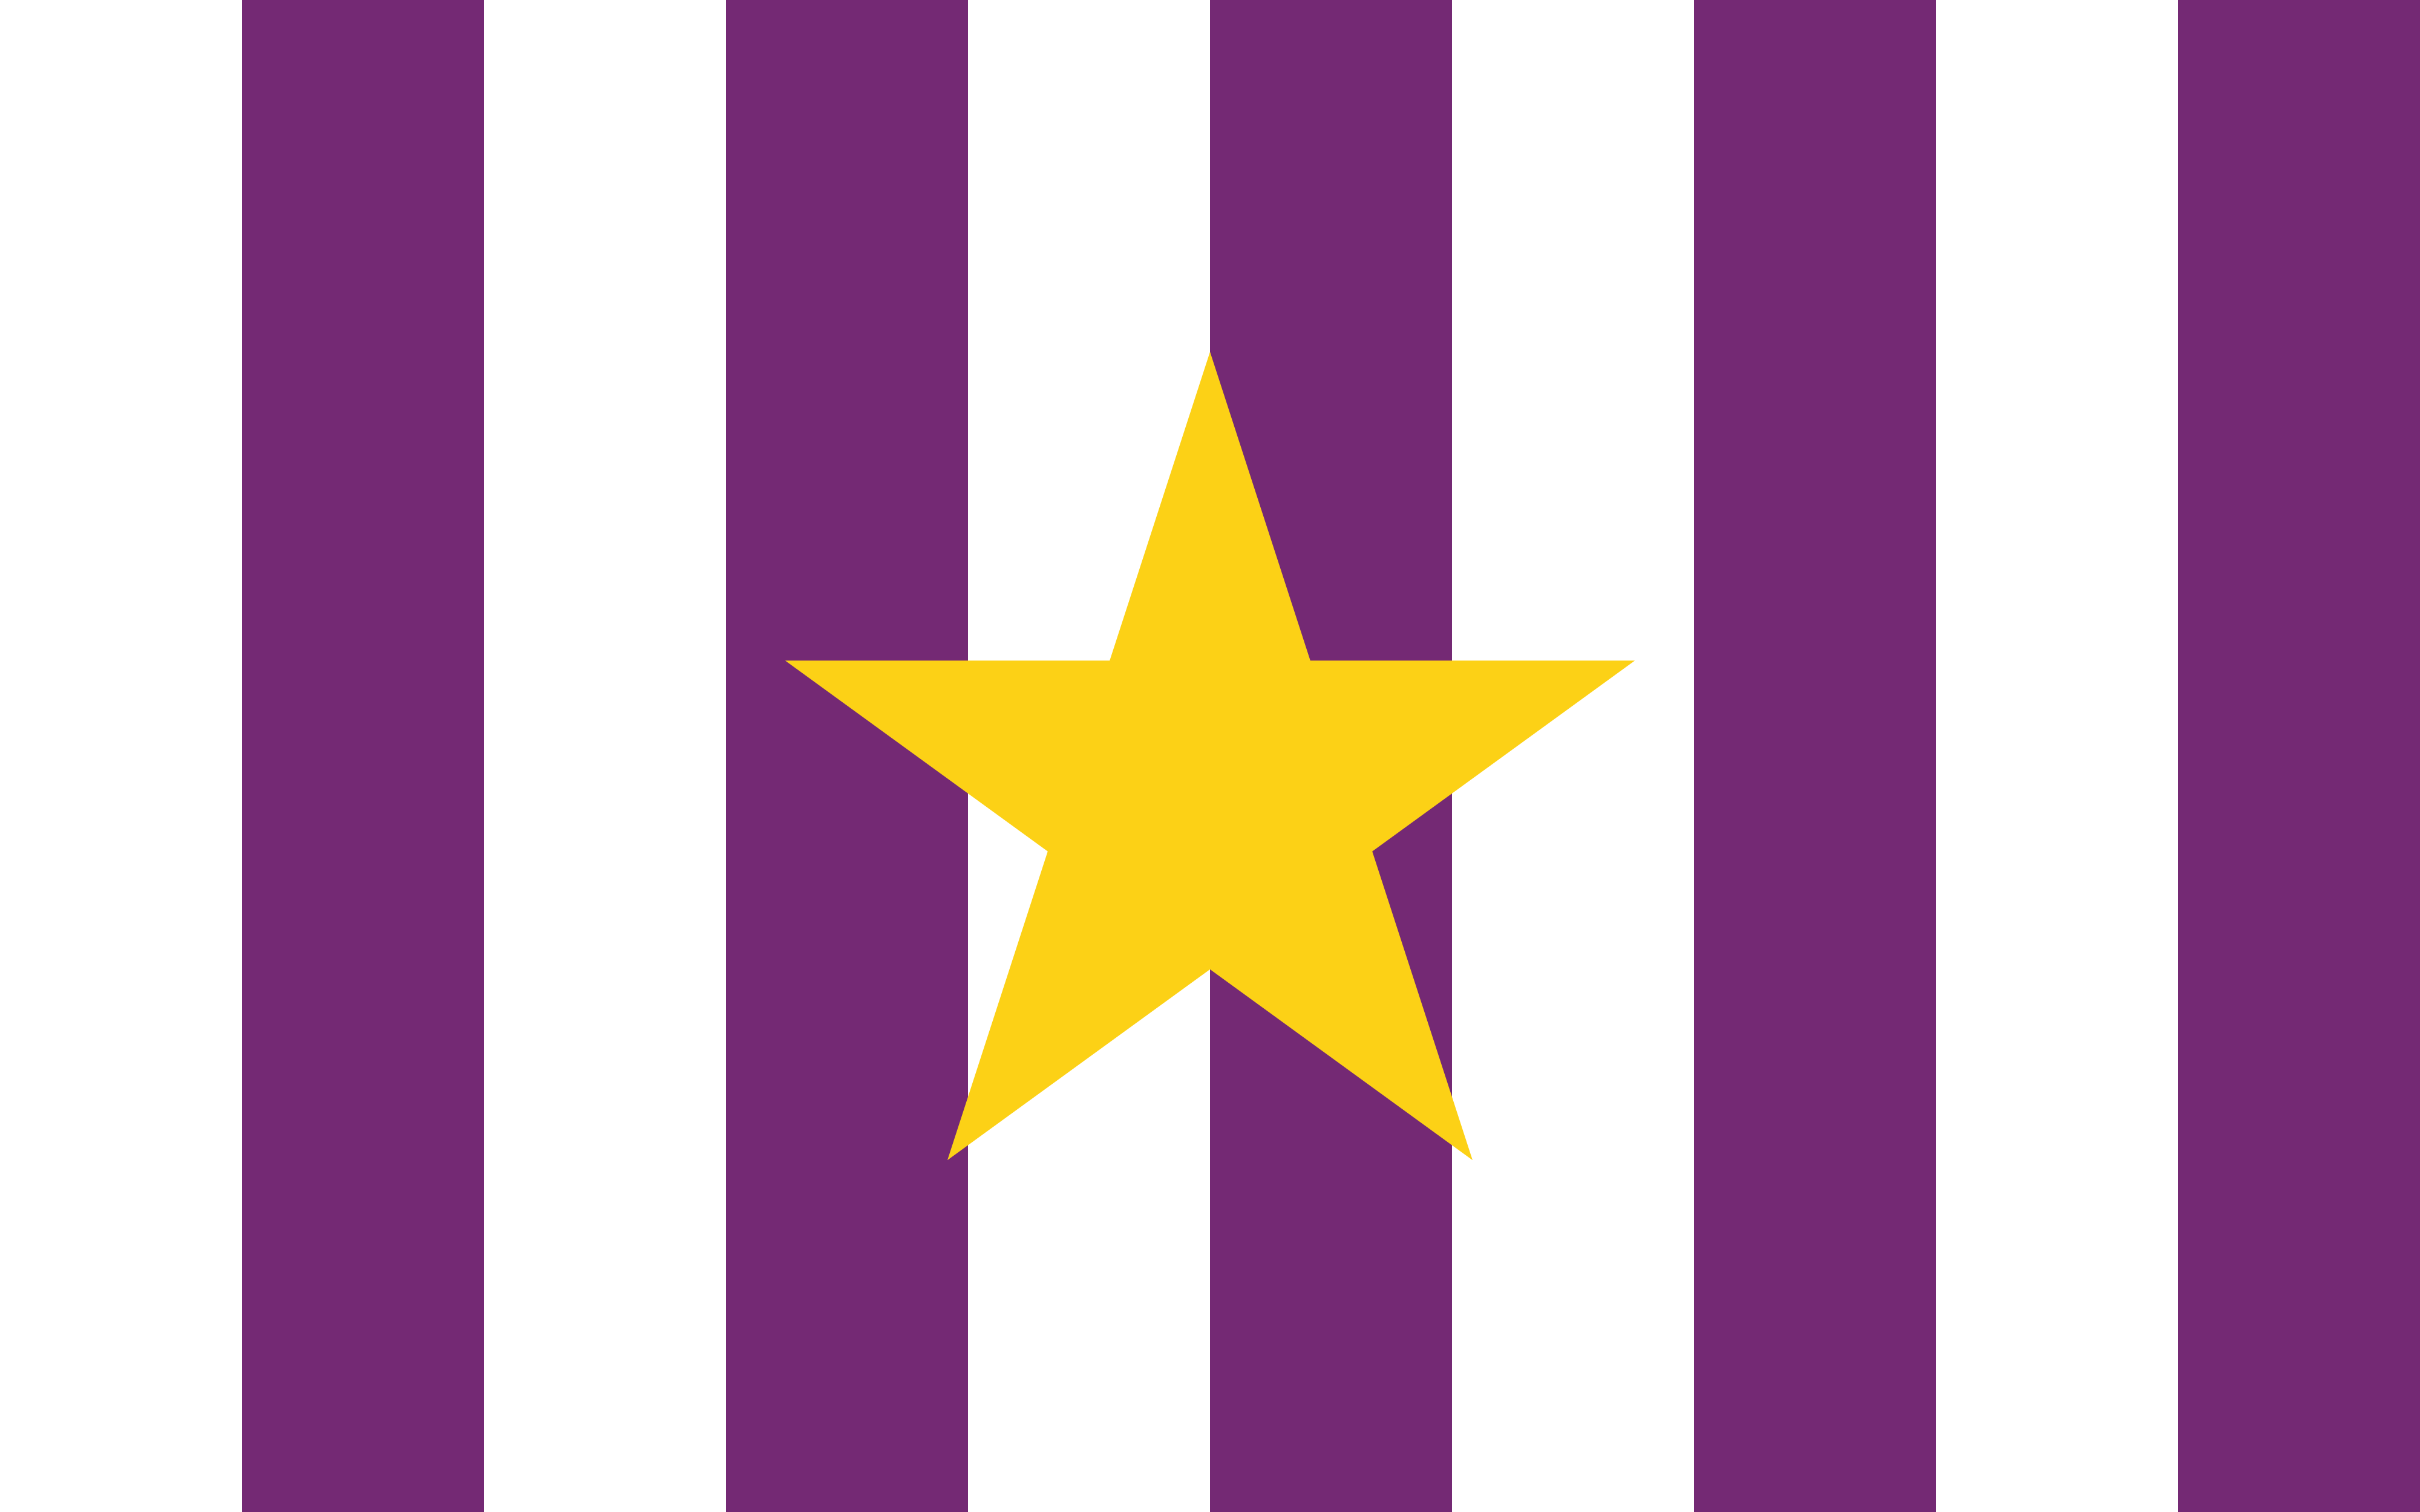
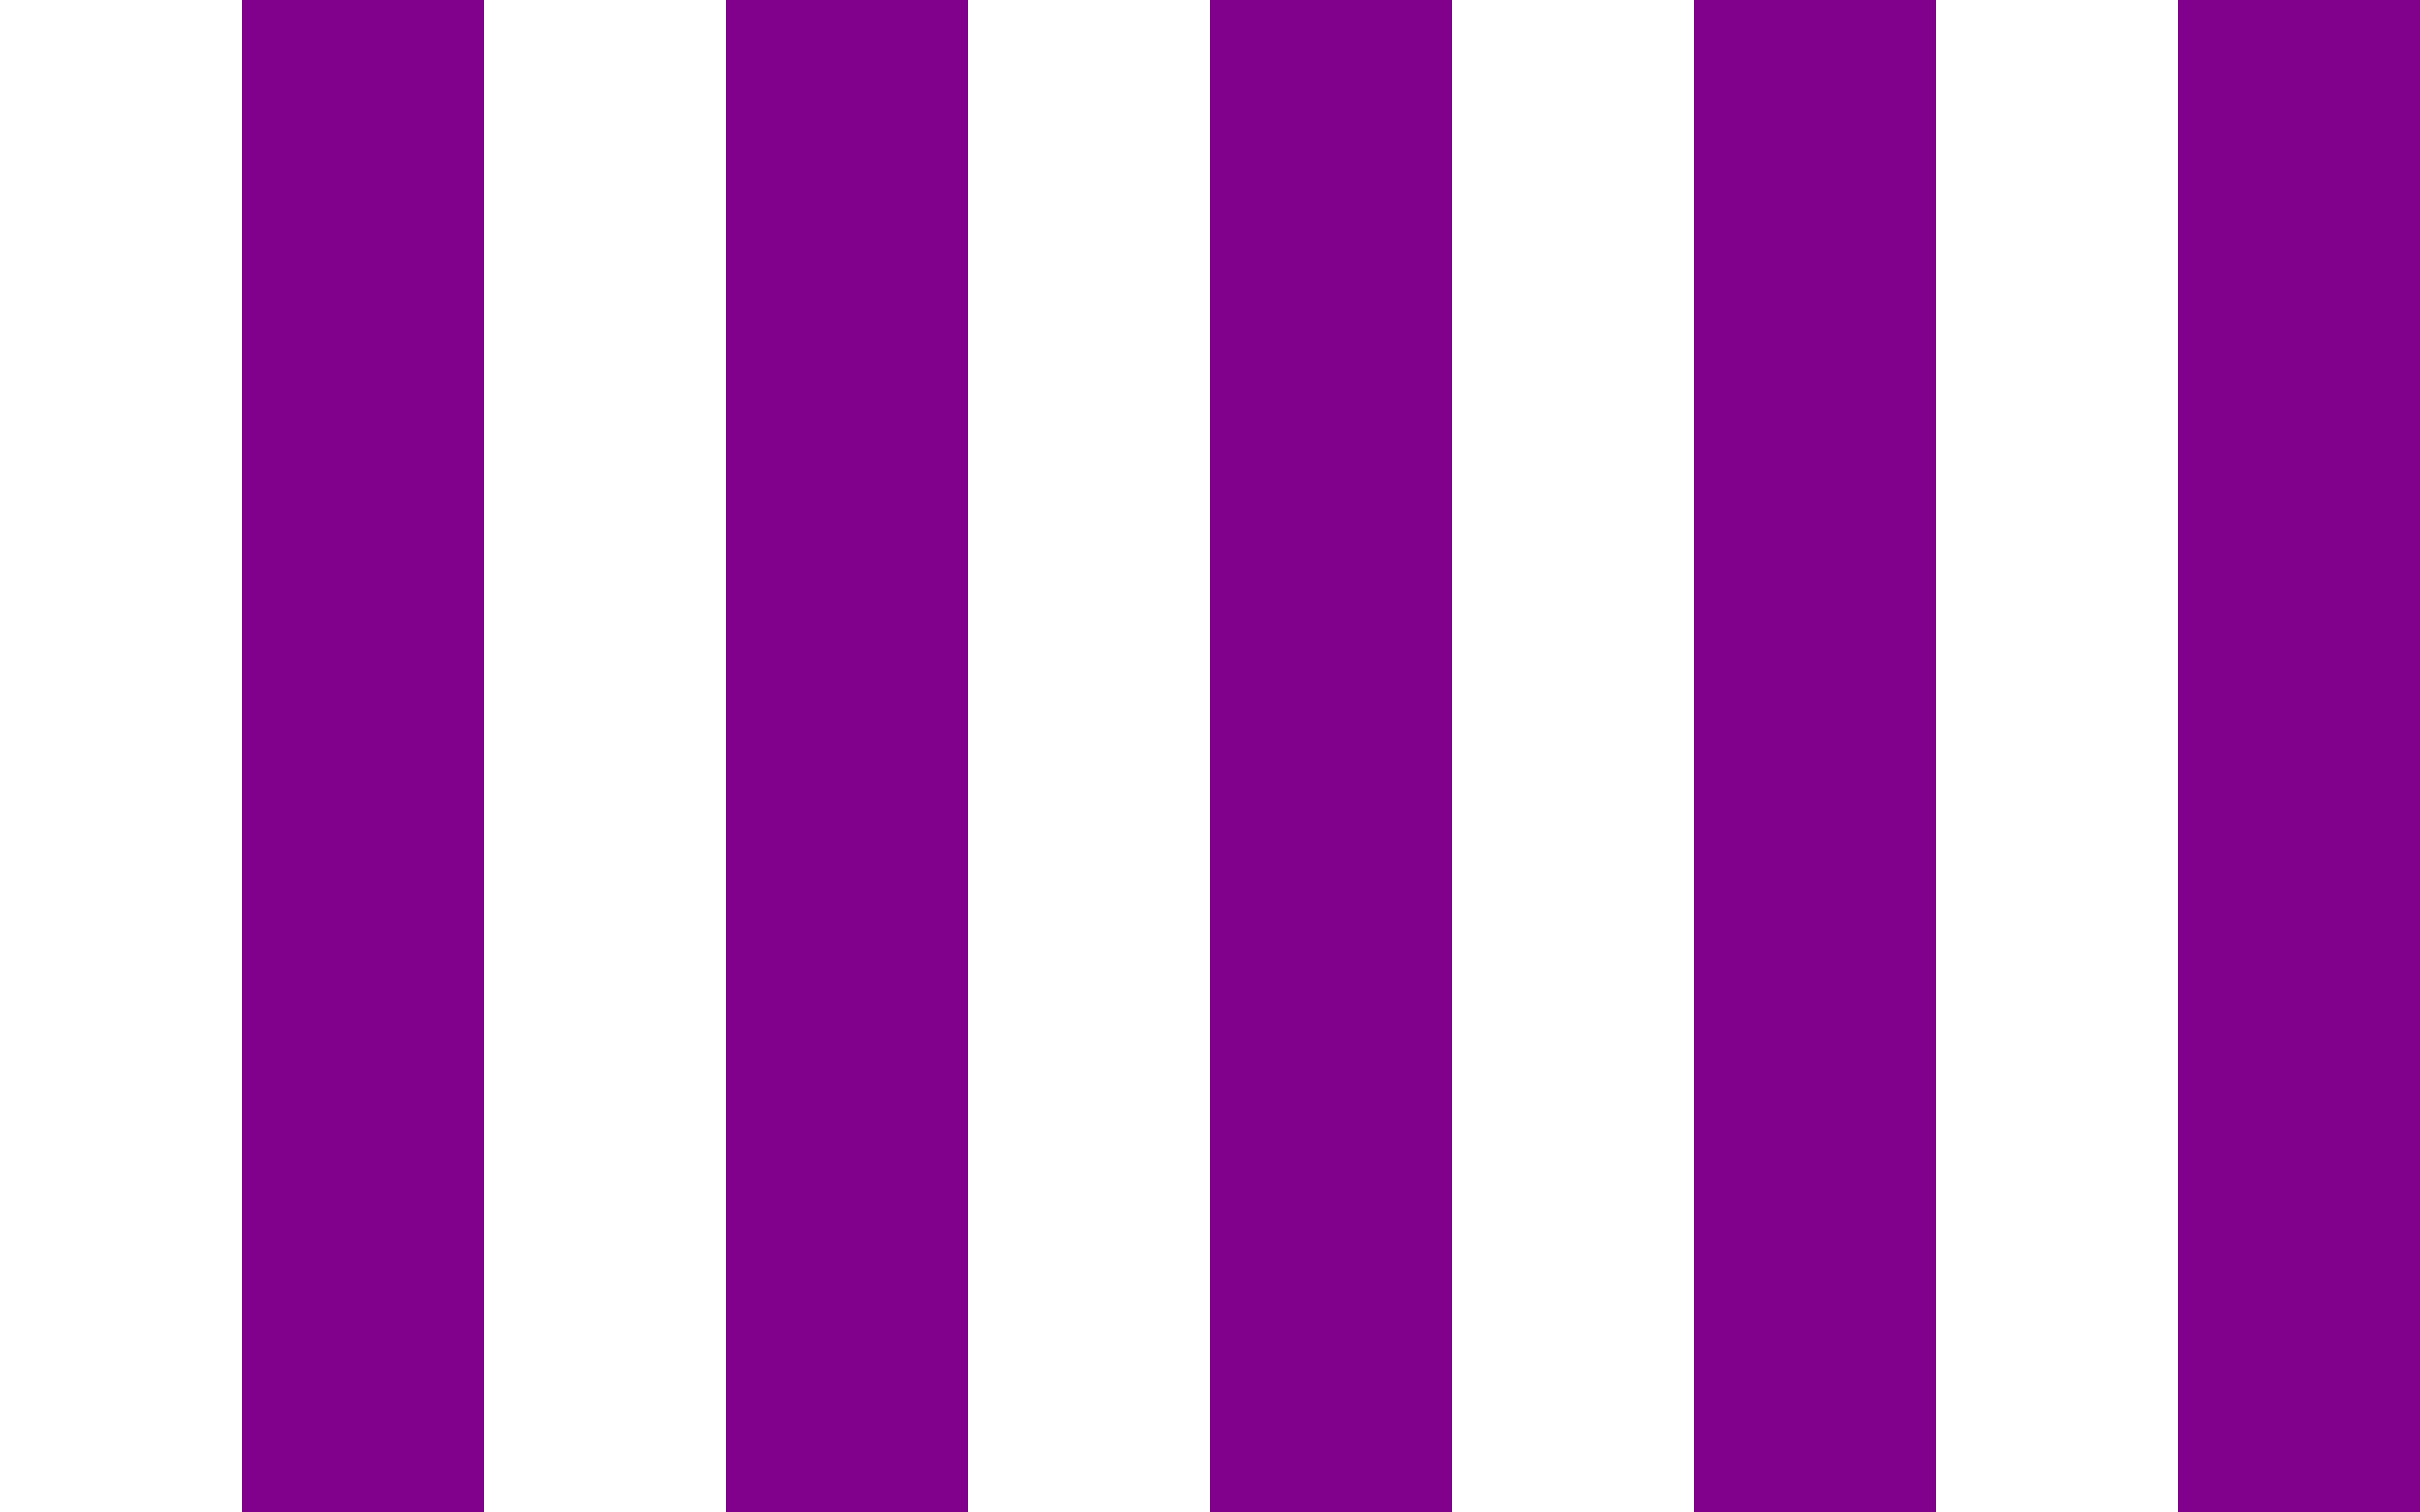
nie chce mi się wymieniać

diff --git a/Strona Internetowa/konstytucja.html b/Strona Internetowa/konstytucja.html
@@ -1,0 +1,36 @@
+<!DOCTYPE html>
+<html lang="en">
+<head>
+    <meta charset="UTF-8">
+    <title>Królestwo Marynskie</title>
+    <link rel="icon" type="image/x-icon" href="assets/herb_królestwa_marynskiego.ico">
+    <link rel="stylesheet" href="style.css"> 
+    <script src="https://cdn.jsdelivr.net/npm/marked/marked.min.js"></script>
+</head>
+
+<body>
+    <div class="header_">
+        <a class="logo_" href="index.html"><img src="assets/herb_królestwa_marynskiego.png"></a>
+        <h1><b>Królestwo Marynskie</b></h1>
+        <a href="index.html">Strona Główna</a>
+        <a href="wielka_karta.html">Wielka Karta</a>
+    </div>
+    <div class="motto_">
+        "Fide et Honore"
+    </div>
+
+    <div id="content">
+        Ładowanie...
+    </div>
+
+    <script>
+        fetch("Wielka_Karta_Królestwa-Marynskiego.md")
+            .then(response => response.text())
+            .then(markdown => {
+            document.getElementById('content').innerHTML =
+                marked.parse(markdown);
+            });
+
+    </script>
+</body>
+</html>

diff --git a/Strona Internetowa/index.html b/Strona Internetowa/index.html
@@ -1,0 +1,23 @@
+<!DOCTYPE html>
+<html lang="en">
+<head>
+    <meta charset="UTF-8">
+    <title>Królestwo Marynskie</title>
+    <link rel="icon" type="image/x-icon" href="assets/herb_królestwa_marynskiego.ico">
+    <link rel="stylesheet" href="style.css"> 
+</head>
+
+<body>
+    <div class="header_">
+        <a class="logo_" href="index.html"><img src="assets/herb_królestwa_marynskiego.png"></a>
+        <h1><b>Królestwo Marynskie</b></h1>
+        <a href="index.html">Strona Główna</a>
+        <a href="wielka_karta.html">Wielka Karta</a>
+    </div>
+    <div class="motto_">
+        "Fide et Honore"
+    </div>
+
+    <p><b>Strona Główna</b></p>
+</body>
+</html>

diff --git a/Strona Internetowa/style.css b/Strona Internetowa/style.css
@@ -1,0 +1,22 @@
+body {
+    font-family: sans-serif;
+}
+
+.motto_ {
+    font-family: 'Courier New', Courier, monospace;
+}
+
+.header_ {
+    display: flex;
+    gap: 20px;
+    margin-left: 20px;
+}
+
+.logo_ img {
+    width: 80px;
+    height: 80px;
+}
+
+a {
+    color: violet;
+}

diff --git a/lore_Królestwa_Marynskiego.md b/lore_Królestwa_Marynskiego.md
@@ -1,48 +1,1 @@
-# Lore Królestwa Marynskiego
-
-## Waluta
-Walutą Królestwa Marynskiego jest "Korona Marynska".
-
-## Motto
-"Fide et Honore", czyli "Wiernością i Honorem".
-
-## Pies na Herbie
-Pies oznacza wierność i ochronę w Królestwie Marynskim. Pies jest tam, ponieważ w **1310** roku **Dobromir Psinski** zauważył psa i postanowił, że uwieczni to na herbie.
-
-## Stolica
-Stolicą Królestwa Marynskiego jest **Psinkogród** od założyciela Dobromira Psinskiego. Jest ona w stylu średniowiecznym. Znajduję się w stolicy wielki rynek - "Psinkowski Rynek".
-
-## Ordery
- 1. **Order Złotego Psa** - Za wierność i wielkie zasługi dla państwa. Jest on najwyższym orderem.
- 2. **Order Walecznego Psa** - Za wielkie zasługi w wojnach.
-
-## Historia Królestwa Marynskiego
- - Na początku w roku **1310** żył **Dobromir** — władca plemienia Marynów. Miał wówczas 25 lat i zamieszkiwał tereny dzisiejszego Podlasia. W dniu 8 września zauważył psa, który od razu zaczął się łasić do Dobromira. Dobromir postanowił, że ze swego plemienia zrobi państwo o nazwie Królestwo Marynskie. Na herb dał właśnie tego psa, liście dębu, bo przy drzewie dębowym zauważył psa i włócznię, bo tym posługiwali się wtedy jego wojownicy. Stolicę zrobił w swym grodzie Psinkogrodzie od jego nazwiska Psinski. W **1311** mianował siebie Królem. I tak rozpoczęła się Dynastia Psinskich.
- - W roku **1315** kiedy **Dobromir** miał 30 lat przyjął **chrzest** dla Królestwa Marynskiego przez co umocniła się ona na arenie międzynarodowej.
- - W roku **1316** **Dobromir** w wieku 31 lat żeni się z 29-letnią **Mirosławą** przez co w roku **1317** rodzi się jej syn **Kazimier**.
- - W roku **1319** doszło do reform takich jak: utworzenie waluty "Koronę Marynską" i zjednolicenie systemów miar i wag.
- - W roku **1321** doszło do wojny z **Zakonem Krzyżackim**, gdzie Zakon był agresorem. Szczęśliwe wygraliśmy pod Trykami w roku **1322** przez co Królestwo Marynskie zdobyło nowe ziemie i łupy.
- - W roku **1323** rozpoczyna się budowa **Pałacu Pśniskich**. W roku **1327** zakończyła się jego budowa.
- - W roku **1330** **Dobromir** postanawia zainwestować w handel przez co gospodarka powiększa się i skarbiec się powiększa. Zakłada też huty i zakłady płatnerskie przez co powiększa się uzbrojenie.
- - W roku **1333** **Mirosława** postanawia wesprzeć kulturę i kupuje piękne obrazy.
- - W roku **1335** **Dobromir** zakłada Szkołę Rycerską gdzie szkolą się przyszli rycerze.
- - W roku **1336** w wieku 51 lat **Dobromir** umiera i królem zostaje jego syn **Kazimier**.
- - W roku **1340** **Kazimier** wyrusza na wojnę z **Zakonem Krzyżackim**. Jest on zmobilizowany i wygrywa w **1342** roku zgarniając połowę Zakonu w tym dostęp do Morza Bałtyckiego i łupy.
- - W roku **1343** **Kazimier** w wieku 26 lat żeni się z 25-letnią **Bronisławą**.
- - W roku **1344** **Mirosława** - matka Kazimiera umiera.
- - W roku **1345** dla **Kazimiera** rodzi się syn **Bogusław**.
- - W roku **1348** **Kazimier** na cześć swego ojca zakłada Uczelnię im. Dobromira Psinskiego. Jest ona najwyższą uczelnią.
- - W roku **1351** **Kazimier** razem z **Bronisławą** sprowadzają do Królestwa Marynskiego zakon Benedyktynów i zakon Franciszkanów, którzy wzmocnili edukację, kulturę i religię Katolicką.
- - W roku **1353** **Kazimier** zakłada **Elitarny Zakon Złotego Psa**, który broni stolicy i króla.
- - W roku **1356** **Kazimier** zakłada **Wielką Narodową Bibliotekę** niedaleko Uczelni im. Dobromira Psinskiego.
- - W roku **1357** **Bronisława** przywozi z podróży wiele ksiąg i pism, dzięki czemu zwiększa się kultura państwa.
- - W roku **1360** **Kazimier** tworzy "Święto Narodu", które odbywa się co roku 8 września w dzień założenia Królestwa Marynskiego.
- - W roku **1362** **Kazimier** dofinansowuje "Bazylikę Jezusa Chrystusa" przez co **Kazimier** ogłasza oficjalnie, że Jezus jest królem Królestwa Marynskiego.
- - W roku **1367** **Kazimier** tworzy **Order Złotego Psa** za wierność i zasługi dla Królestwa Marynskiego.
- - W roku **1368** **Kazimier** umiera w wieku 51 lat, a mieszkańcy dają jemu przydomek **Waleczny** i jego następcą staje się jego syn **Bogusław** w wieku 23 lat.
- - W roku **1369** **Bogusław** tworzy **Order Walecznego Psa** za wielkie zasługi  w wojnach.
- - W roku **1373** **Bogusław** rozwija handel morski dzięki dofinansowaniu budowy statków handlowych.
- - W roku **1378** **Bogusław** żeni się z **Dobrawą**.
- - W roku **1381** **Bogusław** poprawia relację z Królestwem Polskim i z Wielkim Księstwem Litewskim dzięki zawarciu umowy o wolnym handlu.
- - W roku **1384** **Bogusław** buduje pierwszy statek Floty Złotego Psa o nazwie **Dobromir**.
- - W roku **1385** **Dobrawa** rodzi syna **Sławomira**.
+ - **05.06.2026** - Powstanie Królestwa Marynskiego

diff --git a/Konstytucja_Królestwa_Marynskiego.md b/Konstytucja_Królestwa_Marynskiego.md
@@ -1,0 +1,24 @@
+# Konstytucja Królestwa Marynskiego
+
+## Spis treści:
+ - Rozdział I - Ustrój państwa.
+
+
+## Rozdział I - Ustrój państwa
+
+ - **Art. 1** - Królestwo Marynskie jest panśtwem o ustroju monarchii konstytucyjnej.
+
+ - **Art. 2** - Królestwo Marynskie jest państwem jednolitym.
+
+ - **Art. 3**
+
+    1. Król sprawuje władzę w granicach określonych przez konstytucję.
+    2. Korona jest dziedziczna.
+
+ - **Art. 4** - Królestwo Marynskie strzeże niepodległości i nienaruszalności swego terytorium.
+
+ - **Art. 5** - Królestwo Marynskie zapewnia wolności i prawa człowieka oraz obywatela, a także bezpieczeństwo obywatela.
+
+ - **Art. 6**
+    1. Król sprawuje władzę wykonawczą, ustawodawczą i sądowniczą.
+    2. Król wykonuje swoje kompetencje zgodnie z Konstytucją.